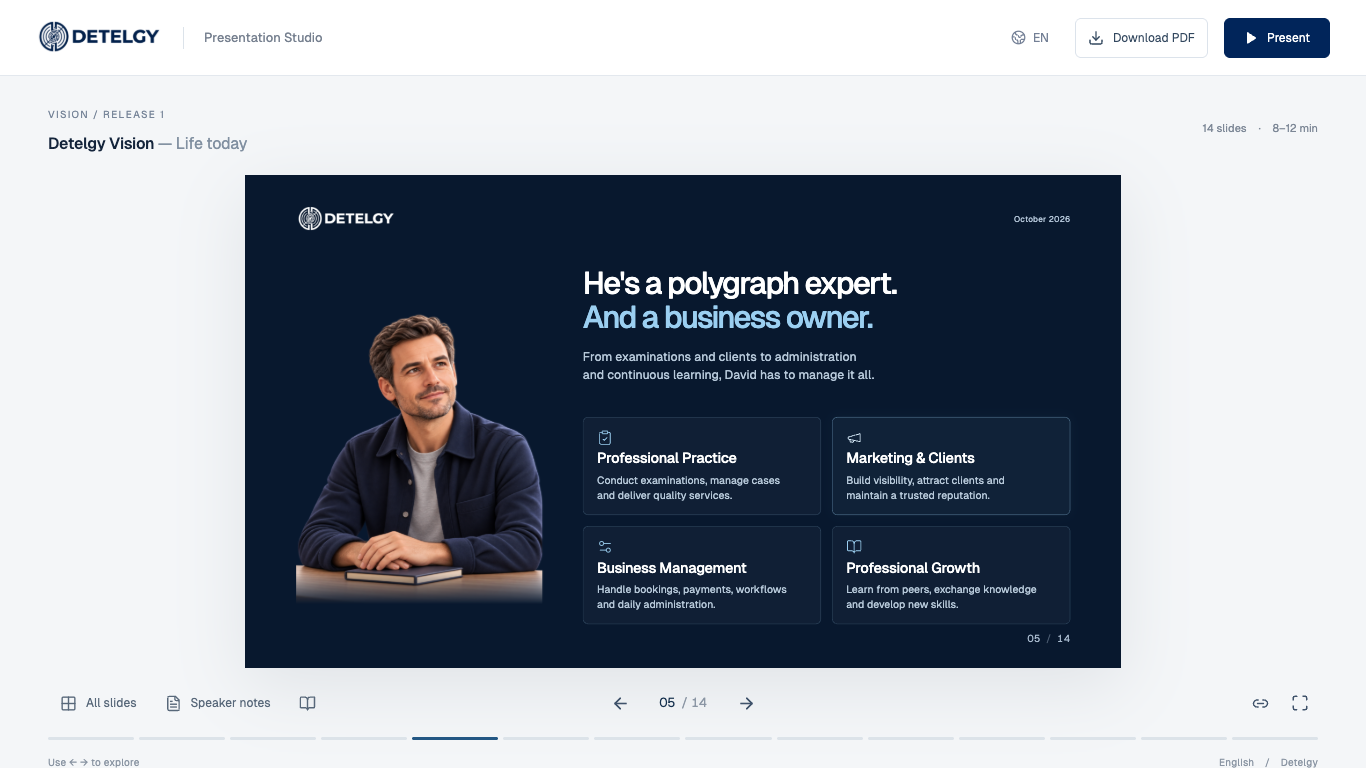
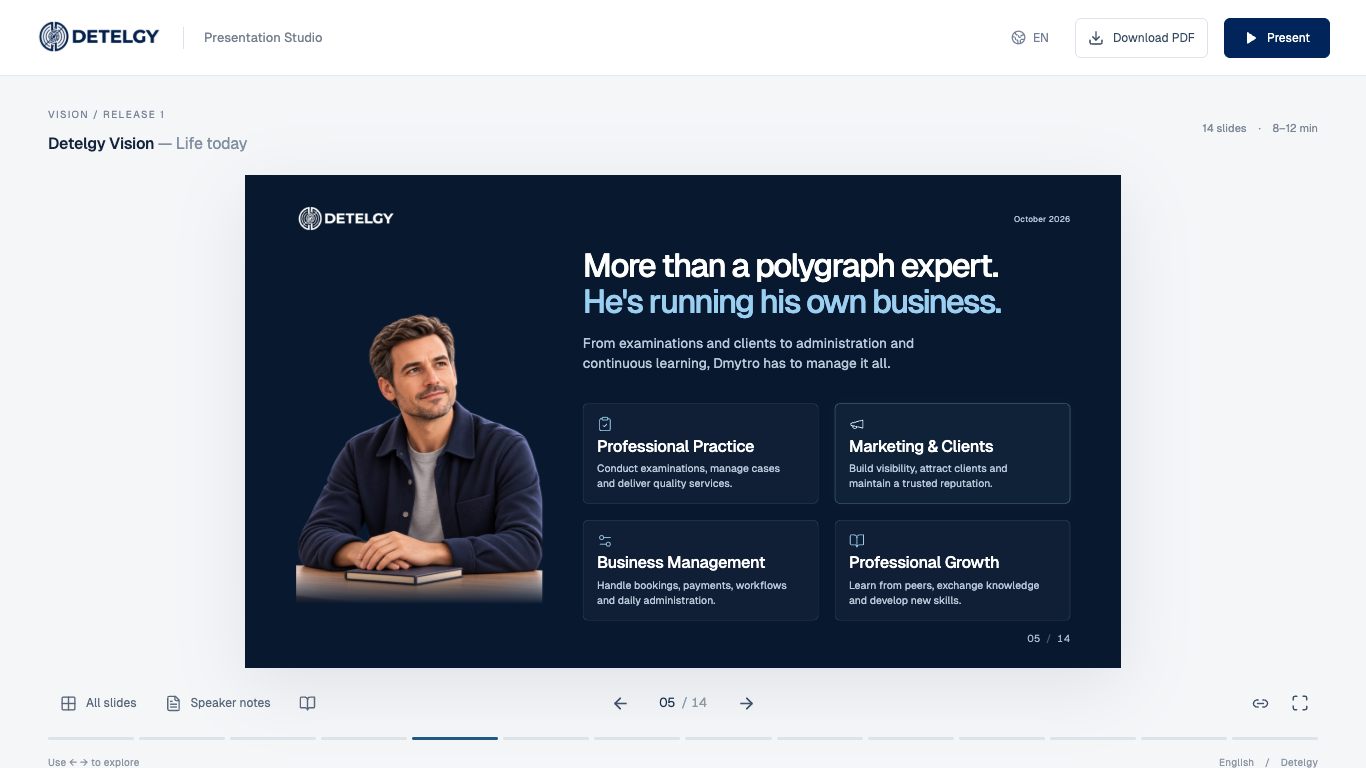
Refine Slide 04 persona caption and rename Dmytro (#2)
* Remove Slide 04 illustrative caption

* Rename fictional persona to Dmytro throughout deck

diff --git a/lib/presentation.ts b/lib/presentation.ts
@@ -5,7 +5,7 @@ export const releasedLocales: readonly Locale[] = ['en'];
 export type SlideId = `s${string}`;
 export type FeatureStatus = 'built' | 'planned' | 'concept';
 export interface SlideItem { title: string; body?: string; label?: string; outcome?: string; detail?: string; status?: string; secondaryStatus?: string; steps?: string[]; }
-export interface SlideContent { id: string; chapter: string; title: string; accent: string; lead: string; eyebrow: string; items: SlideItem[]; footer: string; note: string; sources: string[]; displayItems?: SlideItem[]; persona?: {name:string;detail:string;label:string;profession?:string}; stages?: string[]; prompt?: string; diagramAlt?: string; momentsLabel?: string; columns?: string[]; center?: string; foundation?: string; moments?: SlideItem[]; closing?: string; cta?: string; }
+export interface SlideContent { id: string; chapter: string; title: string; accent: string; lead: string; eyebrow: string; items: SlideItem[]; footer: string; note: string; sources: string[]; displayItems?: SlideItem[]; persona?: {name:string;detail:string;profession?:string}; stages?: string[]; prompt?: string; diagramAlt?: string; momentsLabel?: string; columns?: string[]; center?: string; foundation?: string; moments?: SlideItem[]; closing?: string; cta?: string; }
 export interface Deck { locale: string; title: string; description: string; ui: typeof english.ui; slides: SlideContent[]; }
 export function getDeck(locale: string): Deck | undefined { return locale === 'en' ? english : undefined; }
 export function slideHref(locale: Locale, id: string) { return `/${locale}/vision#${id}`; }

diff --git a/components/workload-scene.tsx b/components/workload-scene.tsx
@@ -3,7 +3,7 @@ import type { SlideContent } from '@/lib/presentation';
 export function WorkloadScene({slide}:{slide:SlideContent}) {
   const icons=[ClipboardCheck,Megaphone,Settings2,BookOpen];
   return <div className="workload-scene">
-    <div className="workload-person"><img src="/assets/personas/david-workload.png" alt="Illustrated David, composed at his desk with a notebook"/></div>
+    <div className="workload-person"><img src="/assets/personas/david-workload.png" alt="Illustrated Dmytro, composed at his desk with a notebook"/></div>
     <div className="workload-grid">{slide.items.map((item,i)=>{const Icon=icons[i];return <section className="workload-demand" data-demand={i} key={item.title} tabIndex={0}>
       <Icon size={40} strokeWidth={1.35} aria-hidden="true"/>
       <h3>{item.title}</h3>

diff --git a/components/transformation-scene.tsx b/components/transformation-scene.tsx
@@ -7,12 +7,12 @@ const scenes = [
   {
     className: 'world-before',
     image: '/assets/personas/david-before-office-wide.png',
-    alt: 'David working at a modest desk with handwritten notes, printed pages and folders',
+    alt: 'Dmytro working at a modest desk with handwritten notes, printed pages and folders',
   },
   {
     className: 'world-connected',
     image: '/assets/personas/david-connected-office-wide.png',
-    alt: 'The same David at an organized desk with a laptop in a bright modern workspace',
+    alt: 'Dmytro at an organized desk with a laptop in a bright modern workspace',
   },
 ] as const;
 

diff --git a/components/story-slides.tsx b/components/story-slides.tsx
@@ -142,7 +142,6 @@ export function StorySlide({
                 <span className="persona-profession">
                   {s.persona?.profession}
                 </span>
-                <small>{s.persona?.label}</small>
               </div>
             </div>
             <div className="persona-tensions">

diff --git a/docs/visual-redesign-v2.md b/docs/visual-redesign-v2.md
@@ -9,7 +9,7 @@ The founder approved the three-slide direction and authorized the remaining slid
 - S05 places an isolated professional between disconnected activities.
 - S06 groups the six original pains into visibility, support and opportunity; original items remain in reading view.
 - S07 presents four independent professional ambitions in a spacious editorial field.
-- S08 uses two wide editorial scenes of the same illustrative David: a modest manual office and a brighter organized workspace. A narrow comparison card is centered across the lower edge of each photograph, with roughly one quarter overlapping the image and the rest below it, so the environment remains the focal point. Each card carries three concise icon-led comparisons and thin illustrative indicators. The earlier five comparisons, capability status, and non-metric nature of the indicators remain qualified in speaker notes.
+- S08 uses two wide editorial scenes of the same illustrative Dmytro: a modest manual office and a brighter organized workspace. A narrow comparison card is centered across the lower edge of each photograph, with roughly one quarter overlapping the image and the rest below it, so the environment remains the focal point. Each card carries three concise icon-led comparisons and thin illustrative indicators. The earlier five comparisons, capability status, and non-metric nature of the indicators remain qualified in speaker notes.
 - S09 connects four product pillars around the professional, with built and planned mechanisms visible.
 - S11 uses an open value loop; the hypothesis caveat remains.
 - S12 branches into three complementary career paths.
@@ -112,9 +112,9 @@ Ice-blue #E6F2FC canvas, navy #102541 headline and #24699E second line, with #52
 
 The compass rose was removed after user feedback about its resemblance to the NATO emblem. A faint, asymmetric botanical sprout now supports the growth message behind the secondary copy. Portraits and layout remain unchanged.
 
-## Slide 04 — Meet David, primary persona
+## Slide 04 — Meet Dmytro, primary persona
 
-Slide 04 now introduces who the independent examiner is and what he wants; barriers remain for Slide 05. The existing portrait occupies 38% of the content width on #E8F3FC. David · 41, Kyiv, Ukraine, Independent Polygraph Examiner and the Illustrative persona label remain legible over the portrait. The headline is two lines with a deeper-blue second line. Experience, Goal and Ambition are large, unboxed editorial blocks. Existing sources and notes are preserved, with David's fictional narrative context added. Portrait → headline → three dimensions reveal in 1.15 seconds, with reduced-motion and print fallbacks. Only a single-slide review PDF is generated for this request; the full deck PDF remains deferred.
+Slide 04 introduces who the independent examiner is and what he wants; barriers remain for Slide 05. The portrait occupies 38% of the content width on warm off-white. Dmytro · 41, Kyiv, Ukraine, and Independent Polygraph Examiner remain legible over the portrait, with 12 years in practice shown in the editorial text. The illustrative nature of the fictional persona stays in speaker notes rather than a visible label. The headline is two lines with a deeper-blue second line. Experience, Goal and Ambition are large, unboxed editorial blocks. The entrance sequence and reduced-motion and print fallbacks remain intact. The full-deck PDF remains deferred.
 
 ### Slide 04 entrance refinement
 
@@ -122,11 +122,11 @@ Sequence: photo (0–450ms), caption (450–800ms), headline (800–1150ms), Exp
 
 ## Slide 05 — The hidden workload
 
-The takeaway is that a capable examiner faces competing responsibilities beyond examinations. The six-island network is replaced with an illustrated David at his desk surrounded by four unboxed demands: Serve Clients, Find New Business, Build Connections, Keep Growing. The existing dark navy canvas, white headline and sky-blue second line retain editorial hierarchy. No connector network, orbit, or continuous motion. David reveals first, followed by the four demands at 250ms intervals; everything is visible by 1.6 seconds. Reduced motion and print show the complete state. Notes preserve the hypothesis qualification and the value of existing communities. Slides 04 and 06 are unchanged from the Slide 04 checkpoint. Screenshot QA at 1920×1080 and laptop scale, static print visibility, animation timings and reduced motion verified. Full-deck PDF remains deferred.
+The takeaway is that a capable examiner faces competing responsibilities beyond examinations. The six-island network is replaced with an illustrated Dmytro at his desk surrounded by four unboxed demands: Serve Clients, Find New Business, Build Connections, Keep Growing. The existing dark navy canvas, white headline and sky-blue second line retain editorial hierarchy. No connector network, orbit, or continuous motion. Dmytro reveals first, followed by the four demands at 250ms intervals; everything is visible by 1.6 seconds. Reduced motion and print show the complete state. Notes preserve the hypothesis qualification and the value of existing communities. Slides 04 and 06 are unchanged from the Slide 04 checkpoint. Screenshot QA at 1920×1080 and laptop scale, static print visibility, animation timings and reduced motion verified. Full-deck PDF remains deferred.
 
 ### Slide 05 structured two-column refinement
 
-Supersedes the floating-demand composition at the user's request. David anchors the left column; the right column contains the two-line headline, balanced two-line supporting copy, and a strict 2×2 grid. Four lightly bordered cards each have a small icon, title and concise supporting sentence. Content remains visible without hover; hover/focus adds tonal, border and icon emphasis. Entrance order is headline, subline, David, then the four cards, completed in 1.65 seconds. Screenshots, hover/focus, reduced motion and fully visible print styling verified. No other slide content changed.
+Supersedes the floating-demand composition at the user's request. Dmytro anchors the left column; the right column contains the two-line headline, balanced two-line supporting copy, and a strict 2×2 grid. Four lightly bordered cards each have a small icon, title and concise supporting sentence. Content remains visible without hover; hover/focus adds tonal, border and icon emphasis. Entrance order is headline, subline, Dmytro, then the four cards, completed in 1.65 seconds. Screenshots, hover/focus, reduced motion and fully visible print styling verified. No other slide content changed.
 
 ## Slide 06 — barriers to growth
 

diff --git a/docs/assets.md b/docs/assets.md
@@ -24,5 +24,5 @@ For final illustrated assets: commission or generate one coordinated set of thre
 ### Slide 03 portrait replacement — 17 October 2026
 The earlier SVG prototype set is replaced with three coordinated dimensional character portraits generated using the built-in image tool, inspired by the user's reference. Final transparent PNG assets: `public/assets/personas/emerging-3d.png`, `examiner-3d.png`, and `expert-3d.png`. Full prompts and reference roles: `docs/persona-image-prompts.md`. These are fictional illustrated characters, not actual members; this qualification remains in speaker notes. The earlier commission brief is superseded by these integrated assets.
 
-### Slide 05 — David's competing responsibilities
-`public/assets/personas/david-workload.png` is a generated, transparent illustration adapting David's existing portrait to the dimensional visual direction. It is fictional, not customer evidence. Built-in image generation used; exact prompt and reference roles recorded in `docs/slide-05-image-prompt.md`.
+### Slide 05 — Dmytro's competing responsibilities
+`public/assets/personas/david-workload.png` is a generated, transparent illustration adapting Dmytro's existing portrait to the dimensional visual direction. It is fictional, not customer evidence. Built-in image generation used; exact prompt and reference roles recorded in `docs/slide-05-image-prompt.md`.

diff --git a/docs/slide-05-image-prompt.md b/docs/slide-05-image-prompt.md
@@ -1,6 +1,6 @@
 # Slide 05 illustration
 
-Generated with the built-in image generation tool. Reference 1: existing fictional David portrait. Reference 2: Slide 03 examiner portrait for rendering style. Final transparent asset: `public/assets/personas/david-workload.png`.
+Generated with the built-in image generation tool. Reference 1: existing fictional Dmytro portrait. Reference 2: Slide 03 examiner portrait for rendering style. Final transparent asset: `public/assets/personas/david-workload.png`. The original prompt below used the persona's former name, David; the image and internal asset filename are unchanged.
 
 ## Prompt
 
